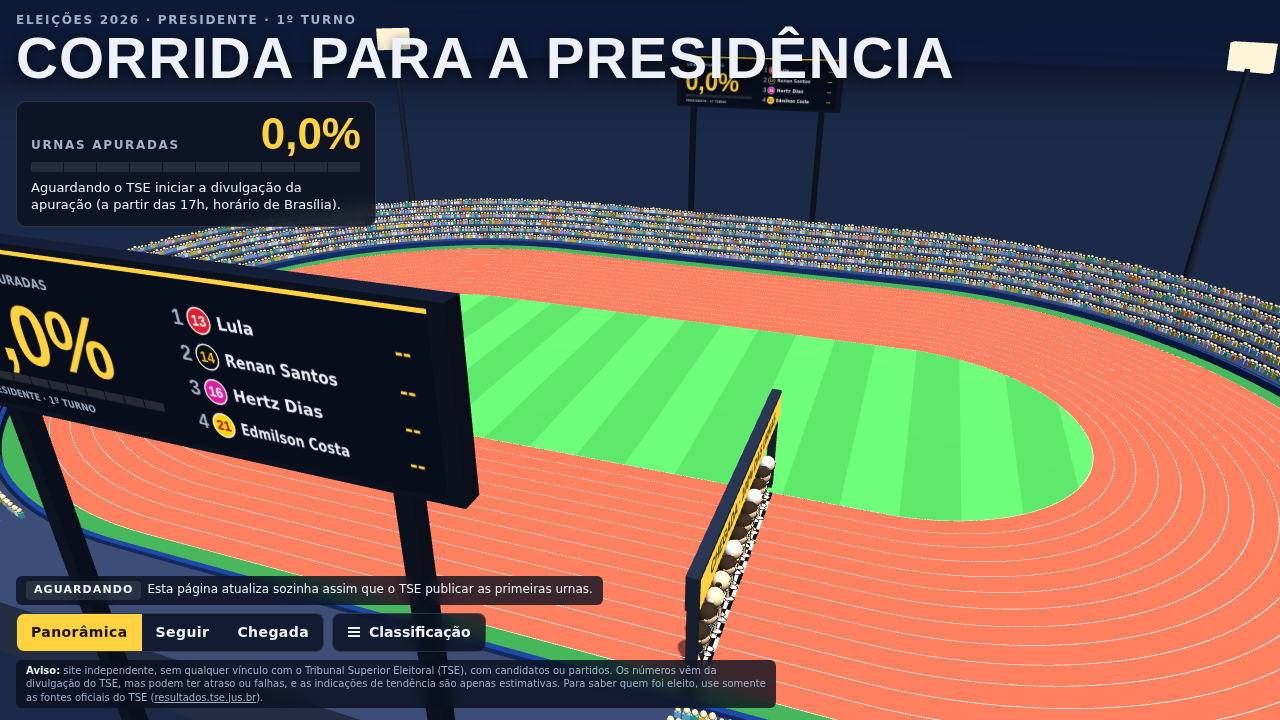
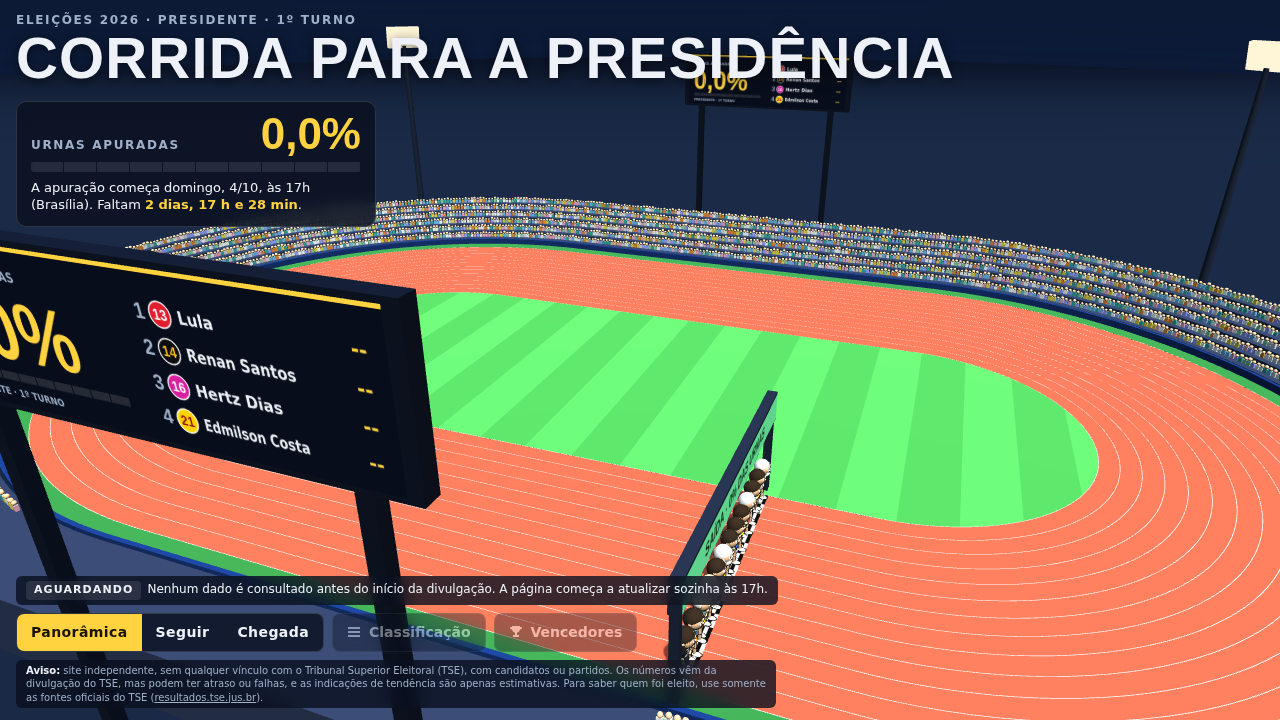
Céu que acompanha a hora do visitante; README atualizado
- Noite, amanhecer, dia, pôr do sol e anoitecer conforme o relógio local, com transições suaves
- Sol visível, luz e sombras que mudam de direção, estrelas e refletores acesos só à noite
- Faixa escura discreta atrás do título quando o céu está claro
- README: novos recursos, céu por horário, variáveis do Worker, robustez, nota de que o código foi feito por IA; imagens atualizadas

Claude-Session: https://claude.ai/code/session_01L5nnQCysyZxoy7jqtaa3cY

diff --git a/public/index.html b/public/index.html
@@ -82,6 +82,7 @@ h1{margin:2px 0 0;font:800 clamp(34px,6vw,58px)/.95 var(--disp);letter-spacing:.
 .note{font-size:12px;color:var(--fg);background:var(--panel);padding:5px 10px;border-radius:6px;width:fit-content;max-width:100%;box-sizing:border-box;pointer-events:none;backdrop-filter:blur(8px);-webkit-backdrop-filter:blur(8px)}
 .mode{display:inline-block;font-size:11px;letter-spacing:.1em;text-transform:uppercase;font-weight:600;padding:2px 8px;border-radius:4px;background:rgba(255,255,255,.1);color:var(--fg);margin-right:6px}
 .mode.live{background:var(--ok);color:#06210f}
+.scrim{position:absolute;left:0;top:0;width:min(1000px,100%);height:180px;pointer-events:none;opacity:0;background:radial-gradient(ellipse 100% 100% at 0 0,rgba(6,12,28,.62),rgba(6,12,28,.32) 50%,rgba(6,12,28,0) 78%);transition:opacity 2s linear}
 #fail{position:absolute;left:50%;top:46%;transform:translate(-50%,-50%);display:none;max-width:min(520px,calc(100% - 32px));box-sizing:border-box;text-align:center;padding:14px 18px;font-size:14px;line-height:1.4;background:var(--panel);border:1px solid var(--line);border-radius:10px}
 @media (max-width:760px){
   .top{gap:8px}
@@ -102,6 +103,7 @@ h1{margin:2px 0 0;font:800 clamp(34px,6vw,58px)/.95 var(--disp);letter-spacing:.
 
 <div id="app">
   <div id="stage"></div>
+  <div class="scrim" id="scrim" aria-hidden="true"></div>
   <div id="fail" role="status">O 3D não pôde ser iniciado neste navegador. Os números e a classificação continuam atualizando normalmente.</div>
   <header class="top">
     <div class="brand">
@@ -211,22 +213,47 @@ function canvasTex(w,h,draw){
   var t=new THREE.CanvasTexture(c);t.anisotropy=4;return {canvas:c,ctx:x,tex:t};
 }
 
-/* Céu noturno com estrelas */
+/* Céu que acompanha a hora do visitante: noite, amanhecer, dia, pôr do sol e anoitecer */
+var skyTex,starsMat,sunSprite;
+var SKY_K=[ /* h = hora local; cores do céu (topo, meio, horizonte, base), névoa, luz ambiente, sol, estrelas, chão, refletores, faixa do título */
+ {h:0,    top:"#030816",mid:"#0d1c3a",hor:"#274168",bot:"#5b5f78",fog:"#0b1428",hs:"#c9dcff",hg:"#1d2b1c",hi:0.85,sc:"#fff1dc",si:0.95,st:1,   gr:"#0f1a2c",lamp:1,scrim:0},
+ {h:5,    top:"#030816",mid:"#0d1c3a",hor:"#274168",bot:"#5b5f78",fog:"#0b1428",hs:"#c9dcff",hg:"#1d2b1c",hi:0.85,sc:"#fff1dc",si:0.95,st:1,   gr:"#0f1a2c",lamp:1,scrim:0},
+ {h:5.75, top:"#0f1d44",mid:"#2c3f73",hor:"#9a6f8c",bot:"#d99a7e",fog:"#3a3f5c",hs:"#c9d4ff",hg:"#2a3324",hi:0.8, sc:"#ffc59a",si:0.75,st:0.4, gr:"#1d2733",lamp:1,scrim:0.3},
+ {h:6.5,  top:"#3d6fb8",mid:"#8db3e0",hor:"#f8c08a",bot:"#fde0b8",fog:"#c9b9b0",hs:"#ffe7cf",hg:"#3a4a2c",hi:0.9, sc:"#ffd2a1",si:1.0, st:0,   gr:"#4a5c45",lamp:0,scrim:0.9},
+ {h:8,    top:"#2f78d6",mid:"#6fb0ee",hor:"#bfe1fb",bot:"#e3f1fb",fog:"#bcd8f0",hs:"#e6f1ff",hg:"#3f5a30",hi:0.95,sc:"#fff6e6",si:1.15,st:0,   gr:"#4f6847",lamp:0,scrim:1},
+ {h:16.5, top:"#2f78d6",mid:"#6fb0ee",hor:"#bfe1fb",bot:"#e3f1fb",fog:"#bcd8f0",hs:"#e6f1ff",hg:"#3f5a30",hi:0.95,sc:"#fff6e6",si:1.15,st:0,   gr:"#4f6847",lamp:0,scrim:1},
+ {h:17.5, top:"#3567b0",mid:"#8aa7d6",hor:"#ffc58a",bot:"#ffe0b0",fog:"#d8c0a8",hs:"#ffe2c4",hg:"#3a4a2c",hi:0.92,sc:"#ffc98f",si:1.05,st:0,   gr:"#4d5e46",lamp:1,scrim:0.9},
+ {h:18.25,top:"#1c2d63",mid:"#5a4f8a",hor:"#ff8a5c",bot:"#ffb07a",fog:"#6a4f6a",hs:"#e7d0ff",hg:"#2a3324",hi:0.85,sc:"#ffa070",si:0.85,st:0.2, gr:"#2a3138",lamp:1,scrim:0.5},
+ {h:19,   top:"#081332",mid:"#16285a",hor:"#4a4a7a",bot:"#7a6a86",fog:"#141c38",hs:"#c9dcff",hg:"#1d2b1c",hi:0.85,sc:"#fff1dc",si:0.95,st:0.75,gr:"#141e30",lamp:1,scrim:0.1},
+ {h:20,   top:"#030816",mid:"#0d1c3a",hor:"#274168",bot:"#5b5f78",fog:"#0b1428",hs:"#c9dcff",hg:"#1d2b1c",hi:0.85,sc:"#fff1dc",si:0.95,st:1,   gr:"#0f1a2c",lamp:1,scrim:0},
+ {h:24,   top:"#030816",mid:"#0d1c3a",hor:"#274168",bot:"#5b5f78",fog:"#0b1428",hs:"#c9dcff",hg:"#1d2b1c",hi:0.85,sc:"#fff1dc",si:0.95,st:1,   gr:"#0f1a2c",lamp:1,scrim:0}
+];
+var skyNow=SKY_K[0];
 (function(){
-  var s=canvasTex(8,512,function(x,w,h){
-    var g=x.createLinearGradient(0,0,0,h);
-    g.addColorStop(0,"#030816");g.addColorStop(.55,"#0d1c3a");g.addColorStop(.85,"#274168");g.addColorStop(1,"#5b5f78");
-    x.fillStyle=g;x.fillRect(0,0,w,h);
-  });
-  var dome=new THREE.Mesh(new THREE.SphereGeometry(1000,32,16),new THREE.MeshBasicMaterial({map:s.tex,side:THREE.BackSide,fog:false}));
+  skyTex=canvasTex(8,512,function(x,w,h){drawSkyGrad(x,w,h,SKY_K[0]);});
+  var dome=new THREE.Mesh(new THREE.SphereGeometry(1000,32,16),new THREE.MeshBasicMaterial({map:skyTex.tex,side:THREE.BackSide,fog:false}));
   scene.add(dome);
   var pos=[],i;for(i=0;i<420;i++){var az=Math.random()*Math.PI*2,el=0.12+Math.random()*1.2,r=950;pos.push(Math.cos(az)*Math.cos(el)*r,Math.sin(el)*r,Math.sin(az)*Math.cos(el)*r);}
   var g=new THREE.BufferGeometry();g.setAttribute("position",new THREE.Float32BufferAttribute(pos,3));
-  scene.add(new THREE.Points(g,new THREE.PointsMaterial({color:0xffffff,size:2.2,sizeAttenuation:false,fog:false})));
+  starsMat=new THREE.PointsMaterial({color:0xffffff,size:2.2,sizeAttenuation:false,fog:false,transparent:true,opacity:1});
+  scene.add(new THREE.Points(g,starsMat));
+  /* disco do sol */
+  var sd=canvasTex(128,128,function(x,w,h){
+    var gr=x.createRadialGradient(64,64,0,64,64,64);
+    gr.addColorStop(0,"rgba(255,255,245,1)");gr.addColorStop(0.32,"rgba(255,248,220,1)");gr.addColorStop(0.42,"rgba(255,226,160,.55)");gr.addColorStop(1,"rgba(255,210,140,0)");
+    x.fillStyle=gr;x.fillRect(0,0,w,h);
+  });
+  sunSprite=new THREE.Sprite(new THREE.SpriteMaterial({map:sd.tex,fog:false,depthWrite:false,transparent:true}));
+  sunSprite.scale.set(150,150,1);sunSprite.visible=false;scene.add(sunSprite);
 })();
+function drawSkyGrad(x,w,h,k){
+  var g=x.createLinearGradient(0,0,0,h);
+  g.addColorStop(0,k.top);g.addColorStop(.55,k.mid);g.addColorStop(.85,k.hor);g.addColorStop(1,k.bot);
+  x.fillStyle=g;x.fillRect(0,0,w,h);
+}
 
 /* Luzes */
-scene.add(new THREE.HemisphereLight(0xc9dcff,0x1d2b1c,0.85));
+var hemi=new THREE.HemisphereLight(0xc9dcff,0x1d2b1c,0.85);scene.add(hemi);
 var sun=new THREE.DirectionalLight(0xfff1dc,0.95);
 sun.position.set(50,130,70);sun.castShadow=true;
 sun.shadow.mapSize.set(2048,2048);
@@ -235,8 +262,11 @@ sun.shadow.camera.near=20;sun.shadow.camera.far=320;sun.shadow.bias=-0.0006;
 scene.add(sun);
 
 /* Chão */
-var ground=new THREE.Mesh(new THREE.CircleGeometry(700,48),new THREE.MeshStandardMaterial({color:0x0f1a2c,roughness:1}));
+var groundMat=new THREE.MeshStandardMaterial({color:0x0f1a2c,roughness:1});
+var ground=new THREE.Mesh(new THREE.CircleGeometry(700,48),groundMat);
 ground.rotation.x=-Math.PI/2;ground.position.y=-0.06;scene.add(ground);
+
+var lampMat=new THREE.MeshBasicMaterial({color:0xfff6d8}); /* painéis dos refletores (acesos à noite) */
 
 /* ---------- Pista ---------- */
 function fillStad(p,R){
@@ -341,7 +371,7 @@ var crowdGroups=[];
     var grp=new THREE.Group();grp.add(bm);grp.add(hm);scene.add(grp);crowdGroups.push(grp);
   }
   /* mastros de iluminação */
-  var pole=new THREE.MeshStandardMaterial({color:0x1b2436,roughness:.7}),lamp=new THREE.MeshBasicMaterial({color:0xfff6d8});
+  var pole=new THREE.MeshStandardMaterial({color:0x1b2436,roughness:.7}),lamp=lampMat;
   [[-1,-1],[1,-1],[-1,1],[1,1]].forEach(function(s){
     var x=s[0]*(L/2+RO-6),z=s[1]*(RO+16);
     var m=new THREE.Mesh(new THREE.CylinderGeometry(0.5,0.8,44,8),pole);m.position.set(x,22,z);scene.add(m);
@@ -815,6 +845,45 @@ var savedRank="0";try{savedRank=localStorage.getItem("rankOpen")||"0";}catch(e){
 setRank(savedRank==="1",false);
 pollLive();setInterval(pollLive,POLL_MS);document.addEventListener("visibilitychange",function(){if(!document.hidden)pollLive();});
 document.getElementById("app").setAttribute("data-mode","wait");
+
+/* ---------- Céu conforme a hora ---------- */
+function horaLocal(){
+  if(typeof window.CORRIDA_HORA==="number")return ((window.CORRIDA_HORA%24)+24)%24; /* só para testes */
+  var d=new Date();return d.getHours()+d.getMinutes()/60+d.getSeconds()/3600;
+}
+var cA=new THREE.Color(),cB=new THREE.Color();
+function mixHex(a,b,t){cA.set(a);cB.set(b);return "#"+cA.lerp(cB,t).getHexString();}
+function skyAt(h){
+  var i=0;while(i<SKY_K.length-2&&h>=SKY_K[i+1].h)i++;
+  var A=SKY_K[i],B=SKY_K[i+1],t=B.h>A.h?clamp((h-A.h)/(B.h-A.h),0,1):0,o={h:h};
+  ["top","mid","hor","bot","fog","hs","hg","sc","gr"].forEach(function(k){o[k]=mixHex(A[k],B[k],t);});
+  ["hi","si","st","lamp","scrim"].forEach(function(k){o[k]=A[k]+(B[k]-A[k])*t;});
+  return o;
+}
+var lastSkyKey="";
+function updateSky(force){
+  var h=horaLocal(),key=Math.round(h*30); /* recalcula a cada 2 minutos de relógio */
+  if(!force&&key===lastSkyKey)return;lastSkyKey=key;
+  var k=skyAt(h);skyNow=k;
+  drawSkyGrad(skyTex.ctx,skyTex.canvas.width,skyTex.canvas.height,k);skyTex.tex.needsUpdate=true;
+  scene.fog.color.set(k.fog);
+  hemi.color.set(k.hs);hemi.groundColor.set(k.hg);hemi.intensity=k.hi;
+  sun.color.set(k.sc);sun.intensity=k.si;
+  starsMat.opacity=k.st;starsMat.visible=k.st>0.02;
+  groundMat.color.set(k.gr);
+  lampMat.color.set(mixHex("#7d8794","#fff6d8",k.lamp));
+  /* direção da luz: arco do sol entre 6h e 18h; à noite, luz alta dos refletores do estádio */
+  var a=clamp((h-6)/12,0,1)*Math.PI,day=clamp(Math.min(h-5.5,18.5-h),0,1);
+  var dx=150*Math.cos(a),dy=45+110*Math.sin(a);
+  sun.position.set(50+(dx-50)*day,130+(dy-130)*day,70);
+  /* disco do sol no céu */
+  var el=Math.sin(a)*1.05-0.04,vis=h>5.6&&h<18.4;
+  sunSprite.visible=vis;
+  if(vis){sunSprite.position.set(900*Math.cos(a)*Math.cos(el),900*Math.sin(el)+40,-260);sunSprite.material.color.set(mixHex("#ffb070","#ffffff",clamp(Math.sin(a)*2.2,0,1)));}
+  var sc=document.getElementById("scrim");if(sc)sc.style.opacity=k.scrim.toFixed(2);
+}
+updateSky(true);
+setInterval(function(){updateSky(false);},20000);
 
 /* ---------- Loop ---------- */
 function resize(){

diff --git a/README.md b/README.md
@@ -24,15 +24,18 @@ Todos os números vêm da divulgação oficial do TSE.
 
 Um painel de acompanhamento do **1º turno de 2026** (4 de outubro) em que a apuração vira uma corrida:
 
-- uma **pista de atletismo** (piso vermelho, 13 raias, estádio com arquibancadas, telões e pórtico);
+- uma **pista de atletismo** (piso vermelho, 13 raias, estádio com arquibancadas, telões e um pórtico com a faixa **SAÍDA** de um lado e **CHEGADA** do outro);
 - **13 corredores** caricatos, um por candidato à Presidência, com a **camisa na cor do partido** e o **número de urna** do candidato;
 - um **placar ao vivo** com a porcentagem de urnas apuradas, a classificação e um resumo do cenário (disputa aberta, tendência de 2º turno, vitória garantida);
-- três câmeras (panorâmica, seguir o líder e chegada) e um painel de classificação que se abre e se fecha com um clique.
+- três câmeras (panorâmica, seguir o líder e chegada);
+- botão **Classificação**, que se ativa assim que chega o primeiro dado do TSE, e botão **Vencedores**, com um **pódio 3D** do 1º e do 2º colocados no fim da apuração;
+- um **céu que acompanha a hora** de quem está vendo: noite, amanhecer, dia, pôr do sol e anoitecer;
+- **contagem regressiva** até o início da divulgação, domingo, 4/10, às 17h (Brasília).
 
 > A página **não tem modo de demonstração**: antes do início da apuração os corredores ficam na largada, e assim que o TSE publica os primeiros dados a corrida começa sozinha, sem recarregar.
 
 <div align="center">
-<img src="docs/chegada.png" alt="Pórtico de chegada com os 13 corredores na largada" width="760">
+<img src="docs/chegada.png" alt="Câmera da chegada no fim da tarde: os 13 corredores na largada, sob a faixa de saída" width="760">
 </div>
 
 ## 📏 Regras da corrida
@@ -42,9 +45,28 @@ Um painel de acompanhamento do **1º turno de 2026** (4 de outubro) em que a apu
 | **Uma volta = 100% das urnas** | A pista tem 1 volta completa. O líder fica na posição igual à porcentagem de urnas apuradas. |
 | **Posição dos demais** | Proporcional aos votos: `posição = % apurada × votos do candidato ÷ votos do líder`. |
 | **Número no corredor** | Cada corredor mostra a sua porcentagem de votos válidos, como o site do TSE. |
-| **Classificação** | Pelos **votos válidos** de cada candidato. |
+| **Classificação** | Pelos **votos válidos** de cada candidato. O botão fica desativado até chegar o primeiro dado de apuração do TSE, por menor que seja. |
 | **Cenário** | *Garantido* quando a vantagem é maior que todo o eleitorado ainda não apurado; *tendência* quando supera o dobro dos votos válidos esperados no ritmo atual. Com 100% das urnas, vale o status oficial do TSE (Eleito / 2º turno). |
 | **Botão "Vencedores"** | Abre um pódio 3D com o 1º (degrau mais alto) e o 2º colocados. Fica desativado até passar de **99%** das urnas apuradas; se a diferença entre o 1º e o 2º ainda estiver dentro da margem de incerteza dos votos que faltam (o maior entre 10% dos votos válidos restantes e 3,29 desvios-padrão do sorteio multinomial), só libera com **99,99%**. O resultado do pódio é parcial até o TSE divulgar o final. |
+
+## 🌅 Céu conforme a hora
+
+O céu, a luz do sol, as sombras, as estrelas e os refletores do estádio mudam com o **relógio de quem acessa**, com transições suaves:
+
+| Hora local | Céu |
+|---|---|
+| 20h às 5h | noite, com estrelas e refletores acesos |
+| 5h às 6h30 | amanhecer |
+| 6h30 às 8h | nascer do sol |
+| 8h às 16h30 | dia, com o sol cruzando o céu |
+| 16h30 às 18h15 | fim de tarde e pôr do sol |
+| 18h15 às 20h | anoitecer |
+
+No domingo da eleição, a apuração começa por volta do pôr do sol, então quem acompanhar verá o estádio passar do fim de tarde para a noite.
+
+<div align="center">
+<img src="docs/ceu-horarios.png" alt="O mesmo estádio às 3h, ao meio-dia, às 17h12 e às 18h" width="860">
+</div>
 
 ## 🗂 De onde vêm os dados
 
@@ -70,7 +92,9 @@ flowchart LR
 - **`public/index.html`**: o site inteiro (3D, interface, candidatos, cores). Roda no navegador, sem build.
 - **`src/worker.js`**: Worker da Cloudflare que busca o JSON do TSE, converte a vírgula decimal, normaliza os campos e guarda em cache. Assim, milhares de visitantes geram **no máximo uma consulta ao TSE a cada 20 segundos**, o que respeita o limite do TSE (bloqueio por IP em excesso de requisições).
 - **Horário de início**: antes de domingo, 4/10, às 17h (Brasília), nem a página nem o Worker consultam o TSE; a página mostra a contagem regressiva. A rota `/api/verificar` lê o TSE a qualquer momento, para conferir manualmente que a leitura funciona.
-- **Falhas do TSE**: o Worker devolve o último dado bom marcado como *"último dado"*; a página nunca inventa números.
+- **Falhas do TSE**: o Worker devolve o último dado bom marcado como *"último dado"*; a página nunca inventa números. Se o TSE recusar a conexão, a página avisa que ele não está respondendo.
+- **Robustez**: respostas atrasadas e mais antigas são descartadas (a corrida nunca anda para trás); percentuais ausentes são recalculados pelos votos; sem eleitorado total, o painel não faz projeções; cada consulta tem limite de 20 s.
+- **Sem 3D**: se o navegador não suportar WebGL, os números, a classificação e o pódio continuam funcionando; o Three.js tem uma CDN reserva.
 - **Atualização automática**: a página consulta o Worker a cada 30 segundos (e ao voltar para a aba), sem recarregar.
 
 ## 📁 Estrutura
@@ -80,16 +104,23 @@ flowchart LR
 ├── public/
 │   └── index.html          # site: cena 3D, UI, candidatos e cores
 ├── src/
-│   └── worker.js           # /api/resultado e /api/status (TSE → JSON enxuto)
+│   └── worker.js           # /api/resultado, /api/status e /api/verificar (TSE → JSON enxuto)
 ├── docs/                   # imagens deste README
 ├── wrangler.jsonc          # configuração do Cloudflare Workers
 ├── verificar_site.py       # teste do site publicado
 └── verificar_paleta.py     # confere contraste e daltonismo das cores
 ```
 
-## 🔧 Se o TSE mudar o endereço do arquivo
+## 🔧 Variáveis do Worker
 
-Crie a variável `TSE_URL` no Worker (*Configurações → Variáveis e segredos*) com a URL correta e reimplante. Nenhum código precisa mudar.
+Em *Configurações → Variáveis e segredos* do Worker, sem mudar código:
+
+| Variável | Para que serve |
+|---|---|
+| `TSE_URL` | URL do JSON do TSE, se o tribunal mudar o caminho do arquivo. |
+| `TSE_START` | Início da divulgação (ISO 8601). Padrão: `2026-10-04T20:00:00Z` (17h de Brasília). Antes dele o Worker não consulta o TSE. |
+
+A rota `/api/status` mostra a URL e o horário em uso; `/api/verificar` lê o TSE na hora, para conferência.
 
 ## 💻 Rodar localmente
 
@@ -97,8 +128,8 @@ Crie a variável `TSE_URL` no Worker (*Configurações → Variáveis e segredos
 # Worker + site em http://localhost:8787, apontando para o JSON oficial
 npx wrangler dev
 
-# ou apontando para um arquivo de teste seu
-npx wrangler dev --var TSE_URL:http://127.0.0.1:9911/br-c0001-e006257-u.json
+# ou apontando para um arquivo de teste seu, já liberado (sem esperar 4/10 17h)
+npx wrangler dev --var TSE_URL:http://127.0.0.1:9911/br-c0001-e006257-u.json --var TSE_START:2026-01-01T00:00:00Z
 ```
 
 ## 🎨 Candidatos e cores
@@ -109,7 +140,11 @@ Cada candidato tem camisa, cor do número e cor secundária (mangas e calção) 
 python3 verificar_paleta.py
 ```
 
-Os corredores são **personagens genéricos de desenho**, sem a pretensão de retratar o rosto de ninguém: variam apenas em porte, cabelo (ou ausência dele) e cor da camisa.
+Os corredores são **personagens genéricos de desenho**, sem a pretensão de retratar o rosto de ninguém: variam apenas em porte, idade aparente, cabelo (ou ausência dele), barba e cor da camisa. A boca é a mesma, em curva simples, para todos.
+
+## 🤖 Feito com IA
+
+Todo o código deste projeto (cena 3D, interface, Worker, testes) foi escrito por **inteligência artificial** (Claude, da Anthropic), a partir de pedidos e revisões feitos em conversa. O objetivo foi **testar o que dá para construir assim**. Ajustes durante a apuração são esperados.
 
 ## ⚠ Aviso
 
